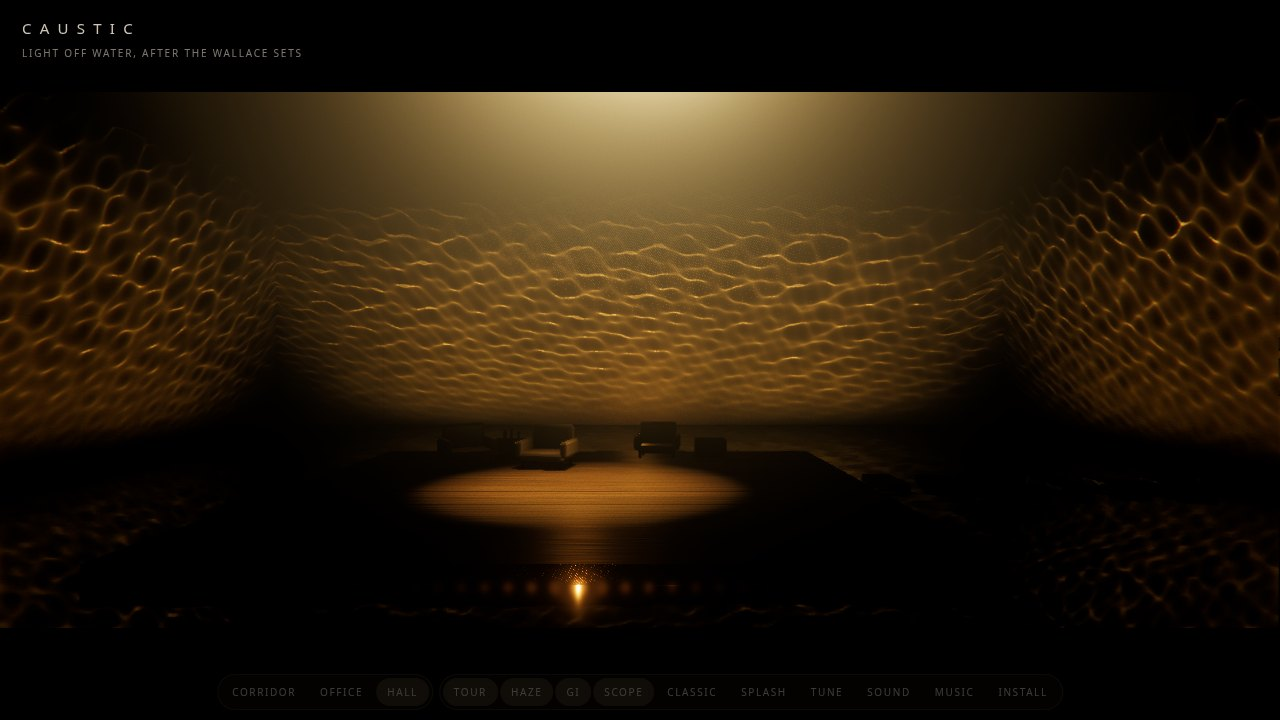
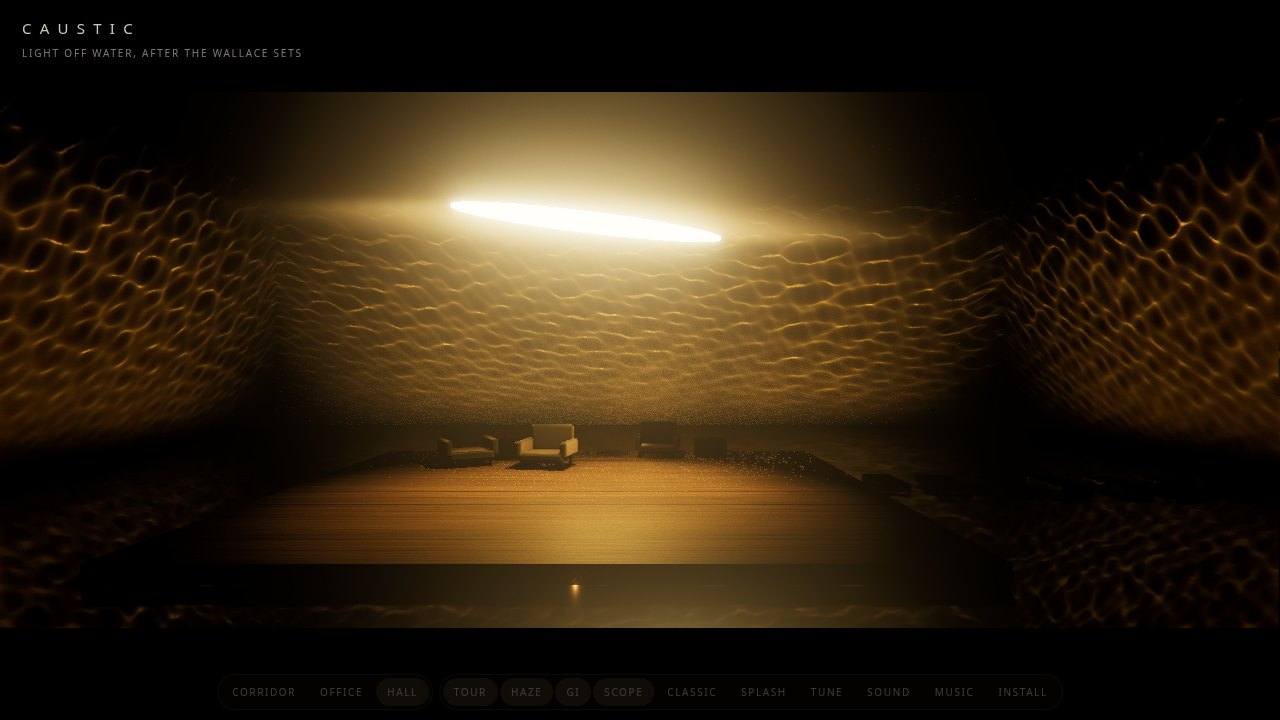
Caustic: hall light lowered over the deck; Classic tile laid on a level water plane (Slant, Stretch) so low beams stretch along their throw

Changed region(s): [[0.125, 0.1222, 0.8438, 0.8861]]

diff --git a/vibes/caustic/caustics.js b/vibes/caustic/caustics.js
@@ -11,7 +11,7 @@
  * colour fringes of a real one. The texture's mean is 1, so a light's intensity is its average brightness.
  */
 import * as THREE from 'three/webgpu';
-import { Fn, uniform, uniformArray, vec2, vec3, vec4, float, positionGeometry, positionWorld, varying, dFdx, dFdy, abs, max, min, Loop, sin, cos, sqrt, int, exp, fract, length, If, normalize, reflect, refract, smoothstep, texture, Discard, screenCoordinate, screenUV } from 'three/tsl';
+import { Fn, uniform, uniformArray, vec2, vec3, vec4, float, positionGeometry, positionWorld, varying, dFdx, dFdy, abs, max, min, Loop, sin, cos, sqrt, int, exp, fract, length, If, normalize, reflect, refract, smoothstep, texture, Discard, screenCoordinate, screenUV, mix } from 'three/tsl';
 
 const WAVES = 12;
 const DROPS = 8; // splashes in flight at once, each a ring that runs out from where it hit and dies away
@@ -24,8 +24,10 @@ export class Caustics {
    */
   constructor(renderer, { size = 512, grid = 256, kMin = 2, kMax = 7, amp = 1, depth = 0.08, speed = 1, dir = 0, spread = Math.PI, disp = 0.04, seed = 1 } = {}) {
     this.renderer = renderer;
-    this.rt = new THREE.RenderTarget(size, size, { type: THREE.HalfFloatType, depthBuffer: false, wrapS: THREE.RepeatWrapping, wrapT: THREE.RepeatWrapping, magFilter: THREE.LinearFilter, minFilter: THREE.LinearFilter });
-    this.rt.texture.wrapS = this.rt.texture.wrapT = THREE.RepeatWrapping;
+    // mipmapped and anisotropic, so a tile laid on a slant (causticSpot's slant), whose cells crowd toward the
+    // waterline, averages them instead of sparkling
+    this.rt = new THREE.RenderTarget(size, size, { type: THREE.HalfFloatType, depthBuffer: false, wrapS: THREE.RepeatWrapping, wrapT: THREE.RepeatWrapping, magFilter: THREE.LinearFilter, minFilter: THREE.LinearMipmapLinearFilter, generateMipmaps: true });
+    this.rt.texture.wrapS = this.rt.texture.wrapT = THREE.RepeatWrapping; this.rt.texture.anisotropy = 8;
     this.texture = this.rt.texture;
     this.time = uniform(0); this.depth = uniform(depth); this.amp = uniform(amp);
     this.speed = speed;
@@ -399,24 +401,67 @@ export class Trough {
   }
 }
 
-// The classic way (the first version, kept as a mode): a spot light whose beam carries a tiled Caustics texture: its colour at each point is the caustic texture at that point's
-// place in the beam (scaled, turned and drifting), times `tint`. Shadows come with the spot light.
+// The classic way (the first version, kept as a mode): a spot light whose beam carries a tiled Caustics texture.
+// Two ways of laying the tile over the beam, blended by `slant` (0 to 1):
+//   flat:  the tile square across the beam, in the light's own projection, as if the water faced the lamp;
+//   slant: the tile laid on a level plane of water `water` metres above or below the lamp (toward its target),
+//          read where the ray from the lamp to each point crosses that plane. A beam that leaves the water at a
+//          low angle then stretches the cells along its throw and narrows them across it, and the pattern turns
+//          with the throw's direction, as the traced light does, without any tracing; the focus stays the same.
+// `stretch` scales the plane's coordinate along the throw beyond that, for play.
 import { rotateUV, time as T } from 'three/tsl';
-export function causticSpot(caustic, { color = 0xffb54a, intensity = 400, angle = 0.5, penumbra = 0.6, scale = 1.5, rot = 0, drift = [0, 0], shadow = 1024, near = 0.5, far = 60, blur = 0 } = {}) {
+export function causticSpot(caustic, { color = 0xffb54a, intensity = 400, angle = 0.5, penumbra = 0.6, scale = 1.5, rot = 0, drift = [0, 0], shadow = 1024, near = 0.5, far = 60, blur = 0, water = 0.6 } = {}) {
   const l = new THREE.SpotLight(color, intensity, 0, angle, penumbra, 2);
   l.castShadow = shadow > 0;
   if (shadow) { l.shadow.mapSize.set(shadow, shadow); l.shadow.camera.near = near; l.shadow.camera.far = far; l.shadow.bias = -0.0004; l.shadow.normalBias = 0.02; l.shadow.radius = 2; }
   const sc = uniform(scale), dr = uniform(new THREE.Vector2(...drift));
+  // the plane and its frame, from where the light is and where it points (set when it is aimed, read each render)
+  const P = { E: uniform(new THREE.Vector3()), y: uniform(0), u: uniform(new THREE.Vector2(1, 0)), tile: uniform(1), Linv: uniform(new THREE.Matrix4()) };
+  const slant = uniform(1), stretch = uniform(1);
+  const frame = () => {
+    l.updateMatrixWorld(); l.target.updateMatrixWorld();
+    const E = new THREE.Vector3().setFromMatrixPosition(l.matrixWorld), G = new THREE.Vector3().setFromMatrixPosition(l.target.matrixWorld);
+    const ax = G.clone().sub(E).normalize(), up = Math.sign(ax.y) || 1;
+    P.E.value.copy(E); P.y.value = E.y + up * water;
+    const h = new THREE.Vector2(ax.x, ax.z); if (h.lengthSq() < 1e-6) h.set(1, 0); P.u.value.copy(h.normalize()); // the throw, level
+    // a tile as wide as the beam's crossing of the plane, across the throw, over the repeat
+    P.tile.value = (2 * water * Math.tan(angle) / Math.max(0.05, Math.abs(ax.y))) / scale;
+    l.shadow.updateMatrices(l); P.Linv.value.copy(l.shadow.matrix).invert();
+  };
   l.colorNode = Fn(([coord]) => {
-    const uv = rotateUV(coord.xy.sub(0.5), rot, vec2(0)).mul(sc).add(dr.mul(T));
+    const flat = rotateUV(coord.xy.sub(0.5), rot, vec2(0)).mul(sc);
+    // the ray from the lamp through this place of the beam, met with the plane, in the throw's frame
+    const w = P.Linv.mul(vec4(coord.xy, 0.5, 1)), d = w.xyz.div(w.w).sub(P.E);
+    const tp = P.y.sub(P.E.y).div(d.y), q = d.mul(tp).xz;
+    // a ray that never crosses the water ahead of the lamp (a trough's light can't go below its surface) is dark,
+    // fading in over the last few degrees as its crossing runs off toward the horizon
+    const reach = smoothstep(0, 0.08, d.y.mul(P.y.sub(P.E.y).sign()).div(length(d)));
+    const along = q.dot(P.u), across = q.dot(vec2(P.u.y.negate(), P.u.x));
+    const onPlane = rotateUV(vec2(across, along.div(stretch)), rot, vec2(0)).mul(sc.div(scale)).div(P.tile);
+    const uv = mix(flat, onPlane, slant).add(dr.mul(T));
     const c = blur > 0
       ? texture(caustic.texture, uv).add(texture(caustic.texture, uv.add(vec2(blur, 0)))).add(texture(caustic.texture, uv.add(vec2(0, blur)))).add(texture(caustic.texture, uv.sub(vec2(blur, blur)))).mul(0.25)
       : texture(caustic.texture, uv);
-    return c.rgb;
+    return c.rgb.mul(mix(float(1), reach, slant));
   });
-  l.userData = { caustic, scale: sc, scale0: scale, drift: dr, rot };
+  // the same mapping on the CPU, for a tap: world point -> tile place (without the drift)
+  const tileAt = (X) => {
+    v4c.set(X.x, X.y, X.z, 1).applyMatrix4(l.shadow.matrix);
+    if (v4c.w <= 0) return null;
+    const u = v4c.x / v4c.w, v = v4c.y / v4c.w;
+    if (u < 0 || u > 1 || v < 0 || v > 1) return null;
+    const f = new THREE.Vector2(u - 0.5, v - 0.5).rotateAround({ x: 0, y: 0 }, rot).multiplyScalar(sc.value);
+    const E = P.E.value, d = X.clone().sub(E), t = (P.y.value - E.y) / d.y;
+    if (slant.value > 0.5 && !(t > 0 && t < 1)) return null;
+    const qx = d.x * t, qz = d.z * t, U = P.u.value;
+    const pl = new THREE.Vector2(qz * U.x - qx * U.y, (qx * U.x + qz * U.y) / stretch.value); // across, along
+    pl.rotateAround({ x: 0, y: 0 }, rot).multiplyScalar(sc.value / scale / P.tile.value);
+    return f.lerp(pl, slant.value);
+  };
+  l.userData = { caustic, scale: sc, scale0: scale, drift: dr, rot, slant, stretch, frame, tileAt };
   return l;
 }
+const v4c = new THREE.Vector4();
 
 // One bounce of a beam, the cheap way (instant radiosity with one virtual light): a dim, unshadowed point light
 // just off the surface the beam lands on, in that surface's colour, carrying the share of the beam's flux the

diff --git a/vibes/caustic/scenes.js b/vibes/caustic/scenes.js
@@ -37,6 +37,7 @@ function aim(g, light, from, to) {
 // The classic lights (the first version, kept as a mode): spot lights projecting a tiled caustic, with their
 // bounces, built hidden; `modes` in a set's return says which lights, caustics and tuning each mode uses.
 function classic(g, list, bounceOpt) {
+  for (const l of list) l.userData.frame?.(); // the slant's plane, from where each light is aimed
   const B = list.map((l) => bounce(l, bounceOpt));
   for (const l of [...list, ...B]) { l.visible = false; if (!l.parent) g.add(l); }
   return { lights: list, extra: B };
@@ -108,9 +109,9 @@ export function corridor(renderer, { phone = false, hq = false } = {}) {
   const lines = new Caustics(renderer, { kMin: 2, kMax: 9, amp: 1.0, depth: 0.0675, speed: 0.55, dir: 0.3, spread: 1.1, grid: phone ? 160 : 256, seed: 3 });
   const n1 = g.children.length;
   const C = classic(g, [
-    aim(g, causticSpot(lines, { color: GOLD, intensity: 1900, angle: 0.4, penumbra: 0.5, scale: 3.6, rot: 0.6, shadow: sh, far: 40 }), [8.5, 15, -2], [-2.7, 2.2, -3.2]),
-    aim(g, causticSpot(lines, { color: GOLD, intensity: 1700, angle: 0.38, penumbra: 0.5, scale: 3.2, rot: -0.7, drift: [0.004, 0.002], shadow: sh, far: 40 }), [-8.5, 15, -1], [2.7, 2.2, -2.5]),
-    aim(g, causticSpot(lines, { color: GOLD2, intensity: 1200, angle: 0.34, penumbra: 0.6, scale: 3.0, rot: 1.6, shadow: sh, far: 40 }), [0.5, 13, 8], [0, 1, -6.5]),
+    aim(g, causticSpot(lines, { color: GOLD, intensity: 1900, angle: 0.4, penumbra: 0.5, scale: 3.6, rot: 0.6, shadow: sh, far: 40, water: 3 }), [8.5, 15, -2], [-2.7, 2.2, -3.2]),
+    aim(g, causticSpot(lines, { color: GOLD, intensity: 1700, angle: 0.38, penumbra: 0.5, scale: 3.2, rot: -0.7, drift: [0.004, 0.002], shadow: sh, far: 40, water: 3 }), [-8.5, 15, -1], [2.7, 2.2, -2.5]),
+    aim(g, causticSpot(lines, { color: GOLD2, intensity: 1200, angle: 0.34, penumbra: 0.6, scale: 3.0, rot: 1.6, shadow: sh, far: 40, water: 3 }), [0.5, 13, 8], [0, 1, -6.5]),
   ], { albedo: BOUNCE, share: 0.02, off: 1.0 });
   const fill = new THREE.HemisphereLight(0x8a7044, 0x1a1408, 0.06); g.add(fill);
   return {
@@ -187,10 +188,10 @@ export function office(renderer, { phone = false, hq = false } = {}) {
   const broad = new Caustics(renderer, { kMin: 2, kMax: 6, amp: 1.0, depth: 0.054, speed: 0.4, dir: 0, spread: 0.9, grid: phone ? 160 : 256, seed: 11 });
   const n1 = g.children.length;
   const C = classic(g, [
-    aim(g, causticSpot(broad, { color: GOLD, intensity: 900, angle: 0.42, penumbra: 0.7, scale: 2.4, rot: 0.1, shadow: sh }), [0, 0.6, 5.3], [0, 3.6, -8]),
-    aim(g, causticSpot(broad, { color: GOLD, intensity: 650, angle: 0.5, penumbra: 0.7, scale: 2.2, rot: 1.3, drift: [0.003, 0], shadow: sh }), [4.7, 0.5, 5], [-5.4, 3.2, -3]),
-    aim(g, causticSpot(broad, { color: GOLD, intensity: 650, angle: 0.5, penumbra: 0.7, scale: 2.1, rot: -1.2, drift: [-0.002, 0.003], shadow: sh }), [-4.7, 0.5, 5], [5.4, 3.2, -3]),
-    aim(g, causticSpot(soft, { color: GOLD2, intensity: 1300, angle: 0.62, penumbra: 0.8, scale: 2.0, rot: 0.4, shadow: sh }), [0, 14, -1.5], [0, 0, -0.5]),
+    aim(g, causticSpot(broad, { color: GOLD, intensity: 900, angle: 0.42, penumbra: 0.7, scale: 2.4, rot: 0.1, shadow: sh, water: 0.5 }), [0, 0.6, 5.3], [0, 3.6, -8]),
+    aim(g, causticSpot(broad, { color: GOLD, intensity: 650, angle: 0.5, penumbra: 0.7, scale: 2.2, rot: 1.3, drift: [0.003, 0], shadow: sh, water: 0.5 }), [4.7, 0.5, 5], [-5.4, 3.2, -3]),
+    aim(g, causticSpot(broad, { color: GOLD, intensity: 650, angle: 0.5, penumbra: 0.7, scale: 2.1, rot: -1.2, drift: [-0.002, 0.003], shadow: sh, water: 0.5 }), [-4.7, 0.5, 5], [5.4, 3.2, -3]),
+    aim(g, causticSpot(soft, { color: GOLD2, intensity: 1300, angle: 0.62, penumbra: 0.8, scale: 2.0, rot: 0.4, shadow: sh, water: 8 }), [0, 14, -1.5], [0, 0, -0.5]),
   ], { albedo: BOUNCE, share: 0.06, off: 2.0 });
   g.add(new THREE.HemisphereLight(0x8a7044, 0x2a2010, 0.08));
   return {
@@ -236,14 +237,14 @@ export function hall(renderer, scene, { phone = false, hq = false } = {}) {
     box(g, wx < 1 ? 0.06 : wx, 0.08, wz < 1 ? 0.06 : wz, revealMat, x + (wx < 1 ? -Math.sign(x) * 0.02 : 0), 0.35, z + (wz < 1 ? -Math.sign(z) * 0.02 : 0), { cast: false });
   }
   box(g, 2 * S + 1, 0.3, 2 * S + 1, plain(0x020101, 1), 0, HW - 0.4, 0, { cast: false });
-  // the light overhead: a long thin ellipse high over the deck on a cable from the dark, swinging slowly as a
+  // the light overhead: a long thin ellipse low over the deck on a cable from the dark, swinging slowly as a
   // pendulum, and the beam it throws down onto the deck swinging with it
   const pivot = new THREE.Group(); pivot.position.set(DX - 0.5, HW - 0.6, DZ - 1.5); g.add(pivot);
-  const LEN = 10;
+  const LEN = 14.4; // its disc 5 m over the deck
   const cable = new THREE.Mesh(new THREE.CylinderGeometry(0.008, 0.008, LEN, 6), plain(0x050403, 0.6)); cable.position.y = -LEN / 2; pivot.add(cable);
   const slit = new THREE.Mesh(new THREE.CylinderGeometry(1, 1, 0.04, 64), new THREE.MeshBasicNodeMaterial({ color: new THREE.Color(1, 0.78, 0.4).multiplyScalar(16) }));
   slit.name = 'slit'; slit.scale.set(3.4, 1, 0.7); slit.rotation.y = Math.PI / 4; slit.position.y = -LEN; pivot.add(slit); // its long axis across the view from the near corner
-  const down = new THREE.SpotLight(GOLD2, 900, 0, 0.32, 0.8, 2); down.castShadow = true; down.shadow.mapSize.set(1024, 1024); down.shadow.bias = -0.0004;
+  const down = new THREE.SpotLight(GOLD2, 420, 0, 0.82, 0.55, 2); down.castShadow = true; down.shadow.mapSize.set(1024, 1024); down.shadow.bias = -0.0004;
   down.position.set(0, -LEN - 0.1, 0.2); pivot.add(down); down.target.position.set(DX, 0, DZ); g.add(down.target);
   // the wall light: lamps out in the room shine down onto long strips of the water along the foot of the back
   // and side walls, whose reflections climb the walls, brightest at the waterline and breaking into ripples higher up
@@ -265,9 +266,9 @@ export function hall(renderer, scene, { phone = false, hq = false } = {}) {
   const n1 = g.children.length;
   const ripples = new Caustics(renderer, { kMin: 2, kMax: 9, amp: 1.0, depth: 0.06, speed: 0.5, dir: 0, spread: Math.PI, grid: phone ? 160 : 256, seed: 5 });
   const C = classic(g, [
-    aim(g, causticSpot(ripples, { color: GOLD, intensity: 5000, angle: 0.55, penumbra: 1, scale: 3.0, rot: 0.2, shadow: sh, far: 90 }), [0, 0.1, 13.5], [0, 4, -S]),
-    aim(g, causticSpot(ripples, { color: GOLD, intensity: 4000, angle: 0.55, penumbra: 1, scale: 2.8, rot: -0.4, drift: [0.002, 0], shadow: sh, far: 90 }), [13.5, 0.1, 0], [-S, 4, 0]),
-    aim(g, causticSpot(ripples, { color: GOLD, intensity: 4000, angle: 0.55, penumbra: 1, scale: 2.9, rot: 0.9, shadow: sh, far: 90 }), [-13.5, 0.1, 0], [S, 4, 0]),
+    aim(g, causticSpot(ripples, { color: GOLD, intensity: 5000, angle: 0.55, penumbra: 1, scale: 3.0, rot: 0.2, shadow: sh, far: 90, water: 0.4 }), [0, 0.1, 13.5], [0, 4, -S]),
+    aim(g, causticSpot(ripples, { color: GOLD, intensity: 4000, angle: 0.55, penumbra: 1, scale: 2.8, rot: -0.4, drift: [0.002, 0], shadow: sh, far: 90, water: 0.4 }), [13.5, 0.1, 0], [-S, 4, 0]),
+    aim(g, causticSpot(ripples, { color: GOLD, intensity: 4000, angle: 0.55, penumbra: 1, scale: 2.9, rot: 0.9, shadow: sh, far: 90, water: 0.4 }), [-13.5, 0.1, 0], [S, 4, 0]),
   ], { albedo: BOUNCE, share: 0.01, off: 3.0 });
   pivot.updateMatrixWorld(true); down.position.applyMatrix4(pivot.matrixWorld); // bounce() reads world positions
   const deckBounce = bounce(down, { albedo: 0x7a6040, share: 0.02, off: 1.6 }); g.add(deckBounce);

diff --git a/vibes/caustic/main.js b/vibes/caustic/main.js
@@ -191,7 +191,9 @@ function show(n, shot = 0) {
 //   sharp:  how far each ray is thrown past where it lands, as if the walls were further: the focus of the lines.
 //   height: the waves' height: calm to choppy.
 //   speed:  how fast the water moves.
-const TUNE = { warmth: 1, colour: 1, exposure: 1, haze: 1, size: 1, sharp: 1, height: 1, speed: 1 };
+//   slant, stretch (classic only): how much the tile is laid on a level plane of water rather than square across
+//           the beam (0: the first version's flat projection), and an extra stretch along the throw.
+const TUNE = { warmth: 1, colour: 1, exposure: 1, haze: 1, size: 1, sharp: 1, height: 1, speed: 1, slant: 1, stretch: 1 };
 const lerpTint = (t, w) => { const y = 0.2126 * t[0] + 0.7152 * t[1] + 0.0722 * t[2]; return t.map((c) => Math.max(0, y + (c - y) * w)); };
 function applyTune() {
   const S = cur; if (!S) return;
@@ -205,7 +207,7 @@ function applyTune() {
     l.userData.color0 ??= l.color.clone();
     const w = Math.min(1, TUNE.warmth), c0 = l.userData.color0, y = 0.2126 * c0.r + 0.7152 * c0.g + 0.0722 * c0.b;
     l.color.setRGB(y + (c0.r - y) * w, y + (c0.g - y) * w, y + (c0.b - y) * w);
-    if (l.userData.scale0) l.userData.scale.value = l.userData.scale0 / K('size'); // classic: the tile's repeat
+    if (l.userData.scale0) { l.userData.scale.value = l.userData.scale0 / K('size'); l.userData.slant.value = TUNE.slant; l.userData.stretch.value = TUNE.stretch; } // classic: the tile's repeat and lay
   }
   for (const c of S.caustics) { c.depth.value = c.base.depth * K('sharp'); c.amp.value = c.base.amp * K('height'); if (c.scale) c.scale.value = 1 / K('size'); }
 }
@@ -221,14 +223,9 @@ function splashAt(x, y) {
     const w = l.userData.trough;
     if (w) { const uv = w.waterUV(hit.point); if (uv) { w.splash(uv[0], uv[1], 1); n++; } continue; }
     if (!l.userData.caustic) continue;
-    // classic: through the light's projection, then the turn, repeat and drift its colorNode applies, to the tile
-    l.shadow.updateMatrices(l);
-    v4.set(hit.point.x, hit.point.y, hit.point.z, 1).applyMatrix4(l.shadow.matrix);
-    if (v4.w <= 0) continue;
-    const u = v4.x / v4.w, v = v4.y / v4.w;
-    if (u < 0 || u > 1 || v < 0 || v > 1) continue;
-    uv2.set(u - 0.5, v - 0.5).rotateAround({ x: 0, y: 0 }, l.userData.rot).multiplyScalar(l.userData.scale.value);
-    uv2.addScaledVector(l.userData.drift.value, renderer._nodes?.nodeFrame?.time ?? 0);
+    // classic: the mapping its colorNode applies (flat or slanted), then its drift, to the tile
+    const t = l.userData.tileAt(hit.point); if (!t) continue;
+    uv2.copy(t).addScaledVector(l.userData.drift.value, renderer._nodes?.nodeFrame?.time ?? 0);
     l.userData.caustic.splash(uv2.x, uv2.y, 1); n++;
   }
   if (!n) splashAll(1); // the floor of the hall, or a dark corner: stir the water anyway

diff --git a/vibes/caustic/index.html b/vibes/caustic/index.html
@@ -37,6 +37,8 @@
   <label>Sharpness <input type="range" data-k="sharp" min="0" max="2.5" step="0.01" value="1"><output>1.00</output></label>
   <label>Wave height <input type="range" data-k="height" min="0" max="2.5" step="0.01" value="1"><output>1.00</output></label>
   <label>Water speed <input type="range" data-k="speed" min="0" max="4" step="0.01" value="1"><output>1.00</output></label>
+  <label title="Classic only: 0 lays the tile square across each beam, 1 on a level plane of water, so it stretches along the throw">Slant <input type="range" data-k="slant" min="0" max="1" step="0.01" value="1"><output>1.00</output></label>
+  <label title="Classic only: more stretch along the throw">Stretch <input type="range" data-k="stretch" min="0.3" max="3" step="0.01" value="1"><output>1.00</output></label>
   <button id="reset">Reset</button>
 </div>
 <div id="ui">

diff --git a/vibes/caustic/README.md b/vibes/caustic/README.md
@@ -4,7 +4,7 @@ Light off water, after the Wallace sets in *Blade Runner 2049*. Three sets, each
 
 - **Corridor**: the wide concrete passage with stairs climbing through receding, tilted portal frames, with thin bright lines running down the walls and over the steps.
 - **Office**: Wallace's office: warm concrete, pilasters and a long shelf, a skylight, a desk and chairs, with broad, slow gold ribbons over the back wall and floor.
-- **Hall**: the hall of water: a dark square room flooded with black water, a low wooden deck with leather chairs and a table, stepping stones off its side, a long ellipse of light swinging slowly on a cable overhead, and ripples climbing the flat concrete walls from the waterline.
+- **Hall**: the hall of water: a dark square room flooded with black water, a low wooden deck with leather chairs and a table, stepping stones off its side, a long ellipse of light swinging slowly on a cable 5 m over the deck, and ripples climbing the flat concrete walls from the waterline.
 
 All three share one gold lamp colour, one rough concrete and one grade, so they read as one building.
 
@@ -17,7 +17,7 @@ All three share one gold lamp colour, one rough concrete and one grade, so they 
 - **Corridor / Office / Hall** (keys 1, 2, 3) switch sets.
 - **Tour** plays slow camera moves with fade cuts. Space jumps to the next shot. Drag to look around yourself (orbit, zoom); Tour picks the moves up again.
 - **Tap a lit wall** to splash the water that lights it: a ring of ripples runs out from where you touched. **Splash** (`s`) stirs the water at random.
-- **Classic** (`c`, or `?classic`) switches every set to the first version's light: one tiled caustic texture projected through each spot light, in place of each lamp's own water traced into the set.
+- **Classic** (`c`, or `?classic`) switches every set to the first version's light: one tiled caustic texture projected through each spot light, in place of each lamp's own water traced into the set. Two Tune sliders shape it: **Slant** lays each lamp's tile on a level plane of water near the lamp instead of square across the beam, so a beam that leaves the water low stretches the cells along its throw as the traced light does (0 is the first version's flat projection), and **Stretch** stretches them further.
 - **Tune** (`t`) opens sliders: Warmth (how orange: the grade's tint and the lamps' colour), Colour (how much of the scene's own colour survives the grade), Exposure, Haze, Ripple size, Sharpness (the focus of the lines), Wave height (calm to choppy) and Water speed. Each scales the set's own value, which already holds that set's tuning (corridor: exposure 1.75, haze 6, ripples 1.63, sharpness 0.28, speed 1.35; office: exposure 0.5; hall: exposure 0.6, ripples 0.6, waves 0.5); double-click a slider, or Reset, to go back.
 - `?hq` doubles the traced light's resolution (a 2048-texel short side, up to 6144 long): sharper lines on near walls, four times the texels and video memory, desktop only.
 - **Haze** puts haze in the beams. **GI** turns screen-space global illumination on or off. **Scope** shows the 2.39:1 bars. **Sound** plays a drone with water under it. **Music** (`m`) plays a slow synthesised cyberpunk score. `h` hides the UI.

diff --git a/CHANGELOG.md b/CHANGELOG.md
@@ -1,6 +1,7 @@
 # Logs
 
 11 Nov 2026
+- Caustic: the hall's hanging light is lowered to 5 m over the deck with a wider beam, so the whole deck is lit. Classic mode's tile can be laid on a level plane of water near each lamp (Slant, on by default) instead of square across the beam: the ray from the lamp to each point is met with that plane, so low beams stretch the cells along their throw and the pattern turns with it, and rays that would leave below the water are dark; Stretch adds more. The tile texture is mipmapped and anisotropic so cells crowding toward the waterline don't sparkle
 - Caustic: every camera move is square to its room, level and straight at a wall, so verticals stay vertical and walls face the camera. The hall is a square room centred on the deck, with water strips lighting the back wall and both side walls
 - Caustic: the hall rebuilt after the stills as a dark square room flooded with black water (flat concrete walls, a low wooden deck with chairs and a table, stepping stones, a long ellipse of light overhead), lit by long strips of water along the foot of the two far walls. A Classic toggle (`c`, `?classic`) brings back the first version's tiled, projected caustic for every set; tap-to-splash works in both. `rough()` takes the surface's own coordinates for curved walls; traced lamps' cones widened so they never cut the light
 - Caustic: each set's tuning found by eye is now its default (corridor exposure x1.75, haze x6, ripples x1.63, sharpness x0.28, speed x1.35; office exposure x0.5; hall exposure x0.6, ripples x0.6, waves x0.5), and the Tune sliders scale it. `?hq` traces the light at twice the resolution. Smoother traced light: brightness from each ray's Jacobian (interpolated signed determinant, rounded by the lamp's size, bounded by the triangle's area ratio), a distance map blended across texels on one surface, a short side of 1024 texels, a lamp-size blur and mipmaps
